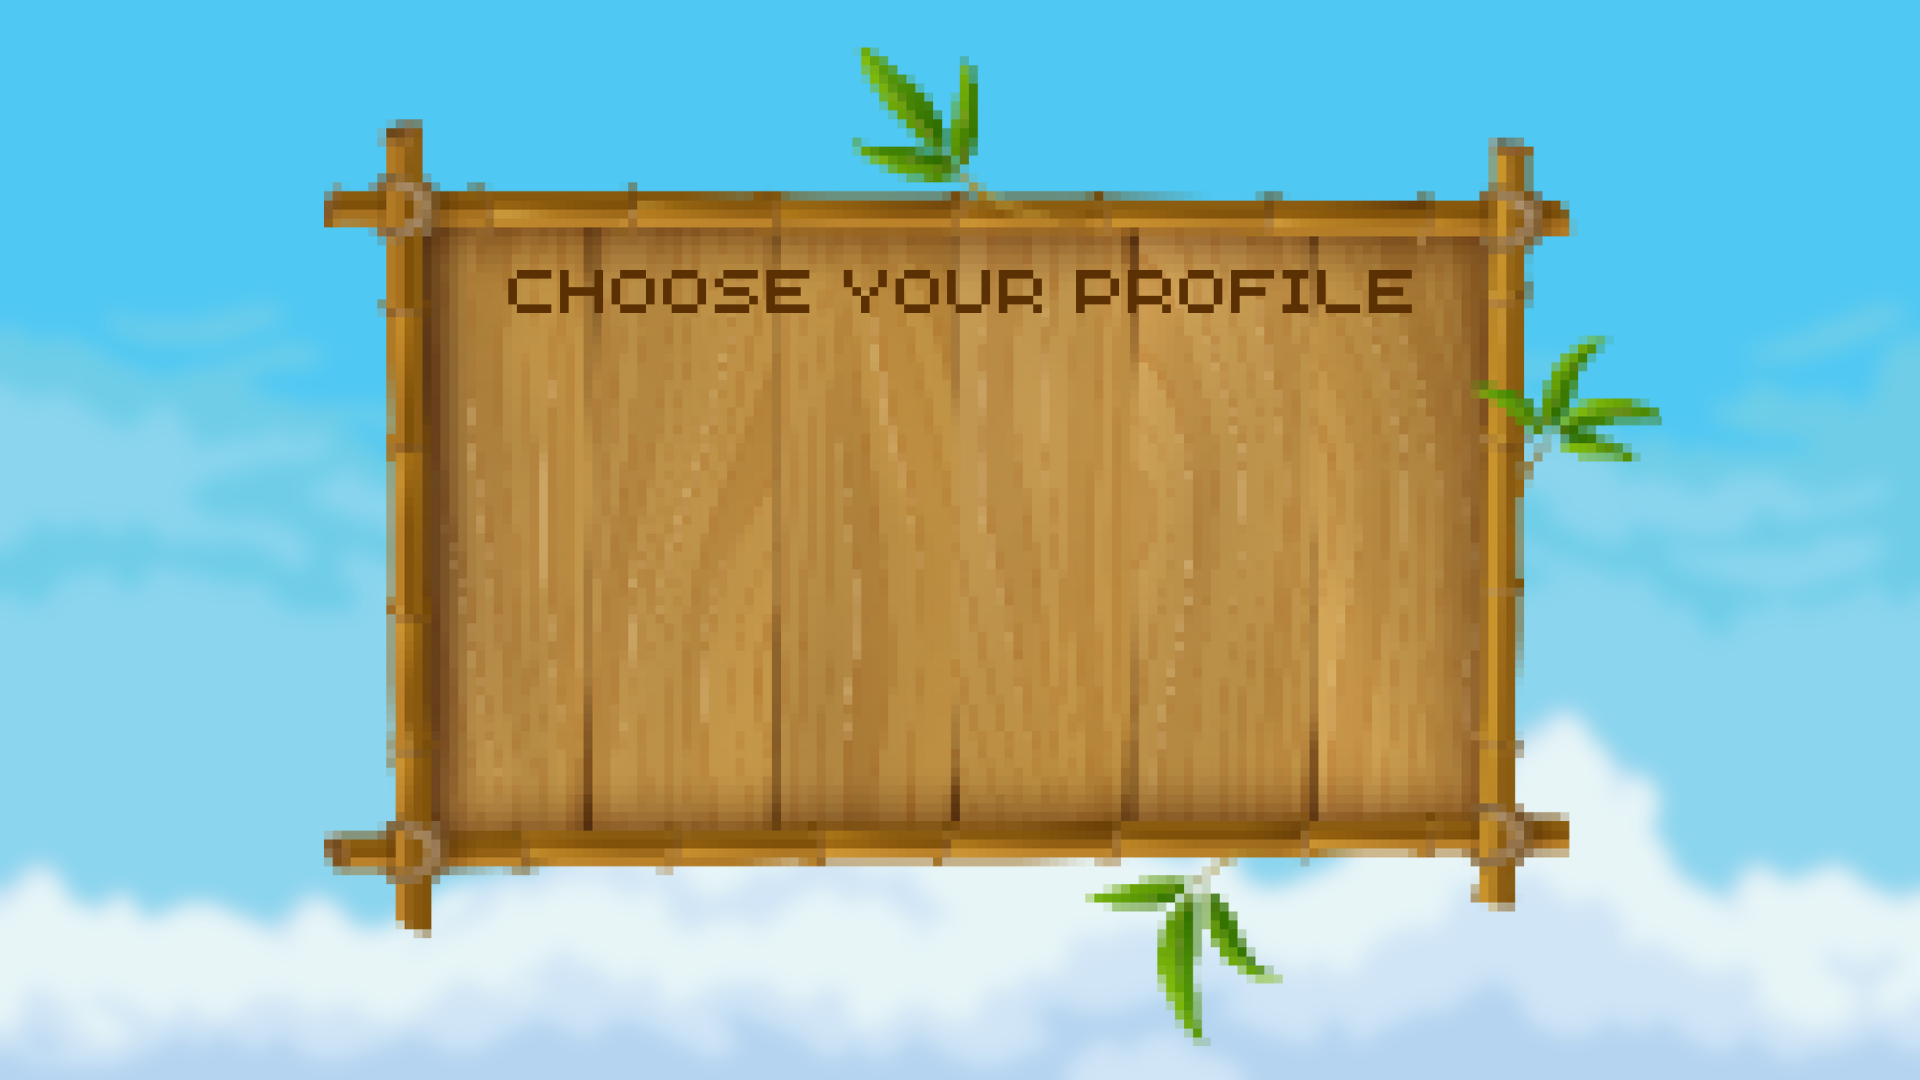
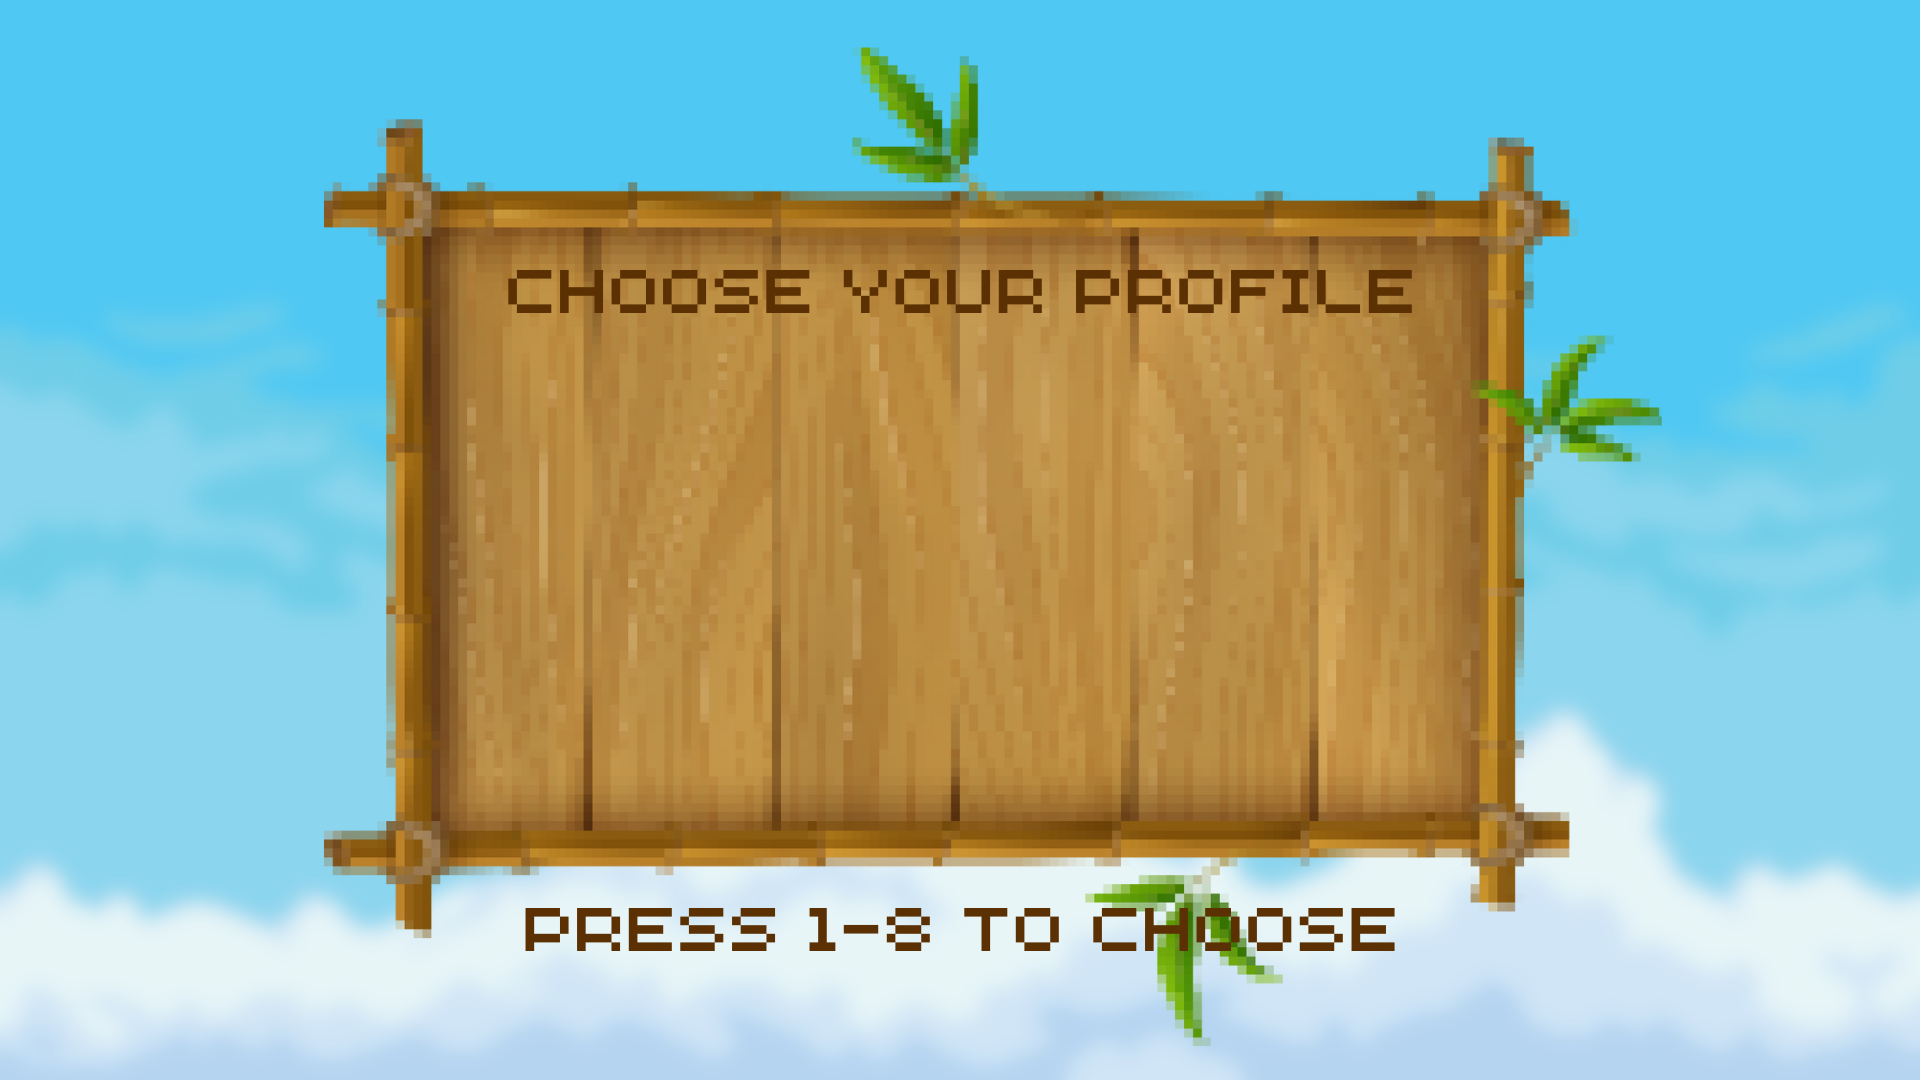
finished loadgame

Changed region(s): [[0.25, 0.825, 0.7188, 0.8861]]

diff --git a/playerprofile.py b/playerprofile.py
@@ -4,6 +4,8 @@ import random
 
 class PlayerProfile:
     def __init__(self, game):
+        self.warning = False
+        self.warningtimer = 0
         self.timer = 0
         self.game = game
         self.display = game.display
@@ -11,6 +13,8 @@ class PlayerProfile:
         self.name = ""
         self.data = []
         self.saveprofile = False
+        self.loaded = False
+        self.choose = False
         self.font = pygame.font.Font(self.game.font, 60)
         self.newbg = game.assets["newgamebg"]
         self.loadbg = game.assets["loadgamebg"]
@@ -20,20 +24,89 @@ class PlayerProfile:
     def read_profile(self):
         self.display.blit(self.loadbg, (0,0))
         # Read the csv file
-        with open("profile.csv", "r") as file:
-            reader = csv.reader(file)
-            for i, row in enumerate(reader):
-                if i == 0:
-                    pass
-                # Append the profile to the list
-                # Name, lvl, gold, speed, HP
-                self.profiles.append([row[0], row[1], row[2], row[3], row[4]])
+        if not self.loaded:
+            with open("profile.csv", "r") as file:
+                reader = csv.reader(file)
+                for i, row in enumerate(reader):
+                    if i == 0 or i > 8:
+                        pass
+                    else:
+                        # Append the profile to the list
+                        # Name, lvl, gold, speed, HP
+                        self.profiles.append([row[0], row[1], row[2], row[3], row[4]])
+                        self.loaded = True
+    
+        # for i in range(numofbutton):
+        for i in range(len(self.profiles)):
+            render_text(str(i+1)+"   "+self.profiles[i][0], self.font, "black", 350 if i <= 3 else 650, (225 + i * 50) if i <= 3 else (225 + i * 50 - 200), self.display, centered=False)
 
-        numofbutton = min(len(self.profiles), 4)
-        for i in range(numofbutton):
-            render_img(self.game.assets["profileup"], 600, 200 + i * 100, self.display)
+        for j in range (8 - len(self.profiles)):
+            render_text(str(j+1+len(self.profiles))+"   ---", self.font, "black", 350 if j+1+len(self.profiles) <= 4 else 650, (225 + (j + len(self.profiles)) * 50) if j+1+len(self.profiles) <= 4 else (225 + (j + len(self.profiles)) * 50 - 200), self.display, centered=False)
 
+        # Get player keyboard input (1-8)
+        for event in pygame.event.get():
+            if event.type == pygame.KEYDOWN:    
+                if event.key == pygame.K_1:
+                    if len(self.profiles) > 0:
+                        self.data = self.profiles[0]
+                    else:
+                        self.warning = True
+                elif event.key == pygame.K_2:
+                    if len(self.profiles) > 1:
+                        self.data = self.profiles[1]
+                    else:
+                        self.warning = True
+                elif event.key == pygame.K_3:
+                    if len(self.profiles) > 2:
+                        self.data = self.profiles[2]
+                    else:
+                        self.warning = True
+                elif event.key == pygame.K_4:
+                    if len(self.profiles) > 3:
+                        self.data = self.profiles[3]
+                    else:
+                        self.warning = True
+                elif event.key == pygame.K_5:
+                    if len(self.profiles) > 4:
+                        self.data = self.profiles[4]
+                    else:
+                        self.warning = True
+                elif event.key == pygame.K_6:
+                    if len(self.profiles) > 5:
+                        self.data = self.profiles[5]
+                    else:
+                        self.warning = True
+                elif event.key == pygame.K_7:
+                    if len(self.profiles) > 6:
+                        self.data = self.profiles[6]
+                    else:
+                        self.warning = True
+                elif event.key == pygame.K_8:
+                    if len(self.profiles) > 7:
+                        self.data = self.profiles[7]
+                    else:
+                        self.warning = True
+                elif event.key == pygame.K_ESCAPE:
+                    return "start"
+
+        if self.warning:
+            render_text("Profile not found", self.font, "red", 600, 450, self.display, centered=True)
+            self.warningtimer += 1
+            if self.warningtimer >= 60:
+                self.warning = False
+                self.warningtimer = 0
                         
+        if self.data != []:
+            self.data[1] = int(self.data[1])
+            self.data[2] = int(self.data[2])
+            self.data[3] = float(self.data[3])
+            self.data[4] = int(self.data[4])
+            render_text(f"Profile {self.data[0]} loaded", self.font, "black", 600, 450, self.display, centered=True)
+            self.timer += 1
+            if self.timer >= 120:
+                return self.data
+        
+        pygame.display.update()
 
         # Create profile
     def create_profile(self):
@@ -43,7 +116,7 @@ class PlayerProfile:
                 if self.name == row[0] and not self.saveprofile:
                     render_text("Profile already exists", self.font, "red", 600, 400, self.display, centered=True)
                     self.exist = True
-                if len(self.name) >= 10:
+                if len(self.name) >= 7:
                     render_text("Profile name too long", self.font, "red", 600, 400, self.display, centered=True)
                     self.exist = True
                 else:
@@ -58,14 +131,18 @@ class PlayerProfile:
                             with open("profile.csv", "a", newline="") as file:
                                 self.saveprofile = True
                                 writer = csv.writer(file)
-                                writer.writerow([self.name, 0, 0, 1.5, 3 ])
+                                writer.writerow([self.name, 0, 0, 1.5, 3])
                                 file.close()
                             
                     elif event.key == pygame.K_BACKSPACE:
                         self.name = self.name[:-1]
+
+                    elif event.key == pygame.K_ESCAPE:
+                        return "start"
+                    
                     else:
                         # only get alphabets
-                        if event.unicode.isalpha() and len(self.name) < 10:
+                        if event.unicode.isalpha() and len(self.name) < 7:
                             self.name += event.unicode
 
             if self.saveprofile:
@@ -77,11 +154,5 @@ class PlayerProfile:
                     return self.data
 
             render_text(self.name, self.font, "black", 600, 340, self.display, centered=True)
+            pygame.display.update()
             
-        
-    def run(self, choice):
-        if choice == "new":
-            return self.create_profile()
-        if choice == "load":
-            self.read_profile()
-        pygame.display.update()

diff --git a/game.py b/game.py
@@ -70,8 +70,8 @@ class Game:
             "buttonleft": scale_images(load_image("button/buttonleft.png"), scale= 1),
             "buttonright": scale_images(load_image("button/buttonright.png"), scale= 1),
             "loadgamebg": scale_images(load_image("background/loadgame.png"), set_scale=(1200, 675)),
-            "profileup": scale_images(load_image("button/profileup.png"), scale= 1),
-            "profiledown": scale_images(load_image("button/profiledown.png"), scale= 1),
+            "profileup": scale_images(load_image("button/profileup.png"), scale= 0.5),
+            "profiledown": scale_images(load_image("button/profiledown.png"), scale= 0.5),
         }
 
         self.sfx = {
@@ -122,22 +122,28 @@ class Game:
                 self.game.run()
 
             if self.state == "newgame":
-                self.data = self.profile.run("new")
-                if self.data is not None:
+                self.data = self.profile.create_profile()
+                if type(self.data) is list:
                     self.state = "cutscene"
                     self.cutscene = "Intro"
+                if self.data == "start":
+                    self.startscreen = StartScreen(self)
+                    self.state = "start"
 
             if self.state == "loadgame":
-                self.data = self.profile.run("load")
-                if self.data is not None:
+                self.data = self.profile.read_profile()
+                if type(self.data) is list:
                     self.state = "game"
+                elif self.data == "start":
+                    self.startscreen = StartScreen(self)
+                    self.state = "start"
 
             if self.state == "cutscene":
                 if self.cutscene == "Intro":
                     cutscene = cutscenes.get_cutscene(self, "Intro", self.cutscenes, self.screen)
                     cutscenes.run(cutscene, True)
                     self.state = "game"
-
+            
             self.screen.blit(pygame.transform.scale(self.display, self.screen.get_size()),(0, 0))
             pygame.display.update()
             self.clock.tick(60)
